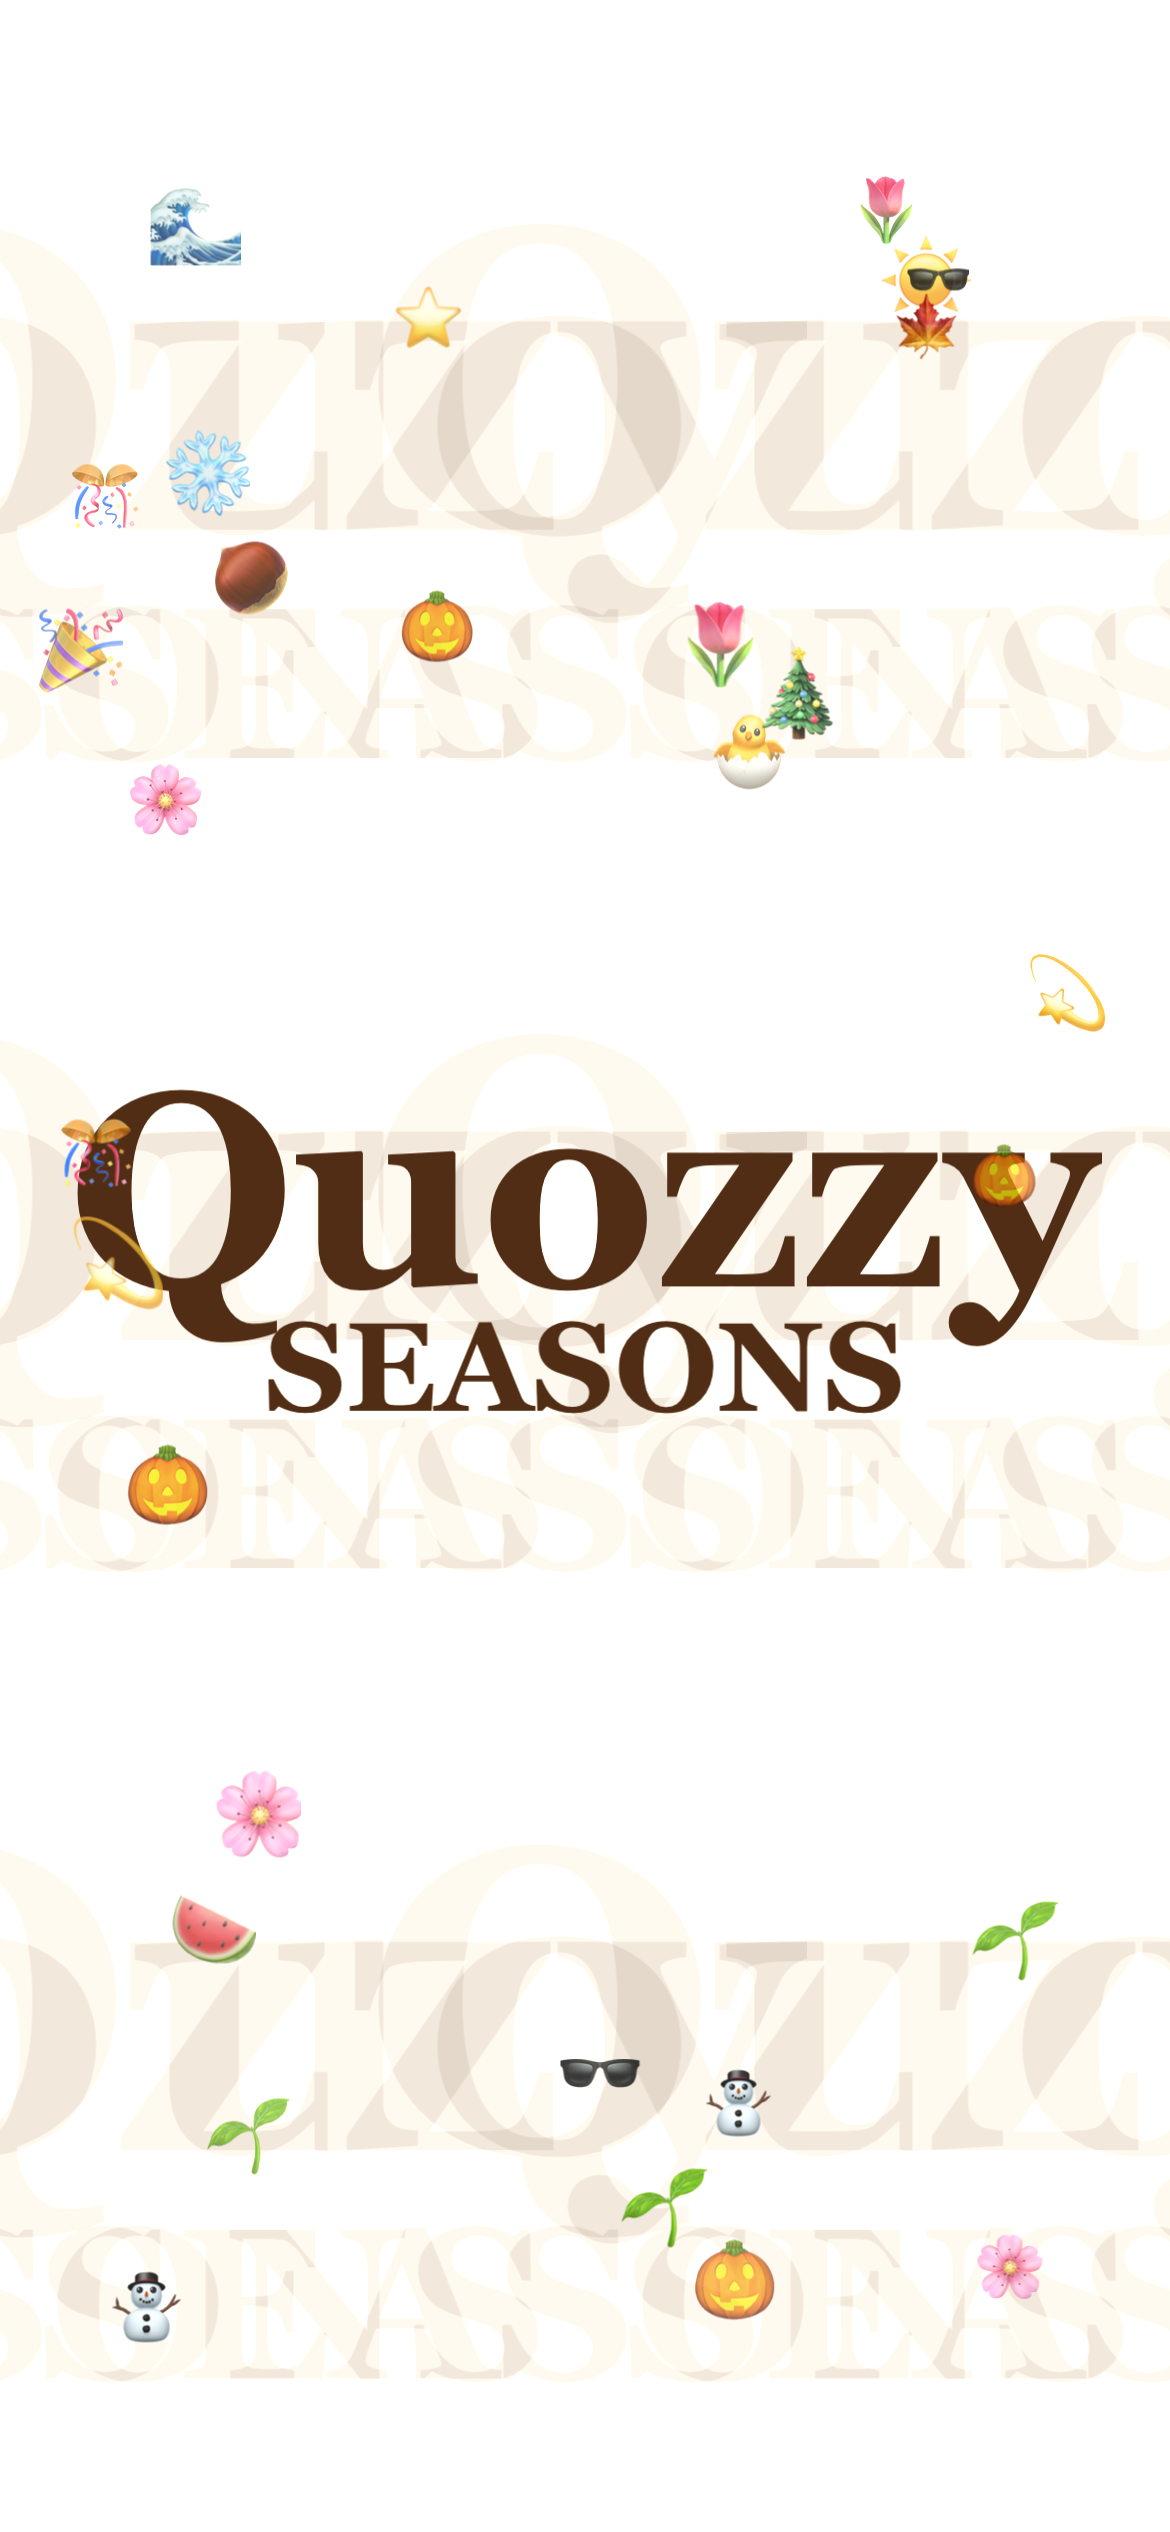
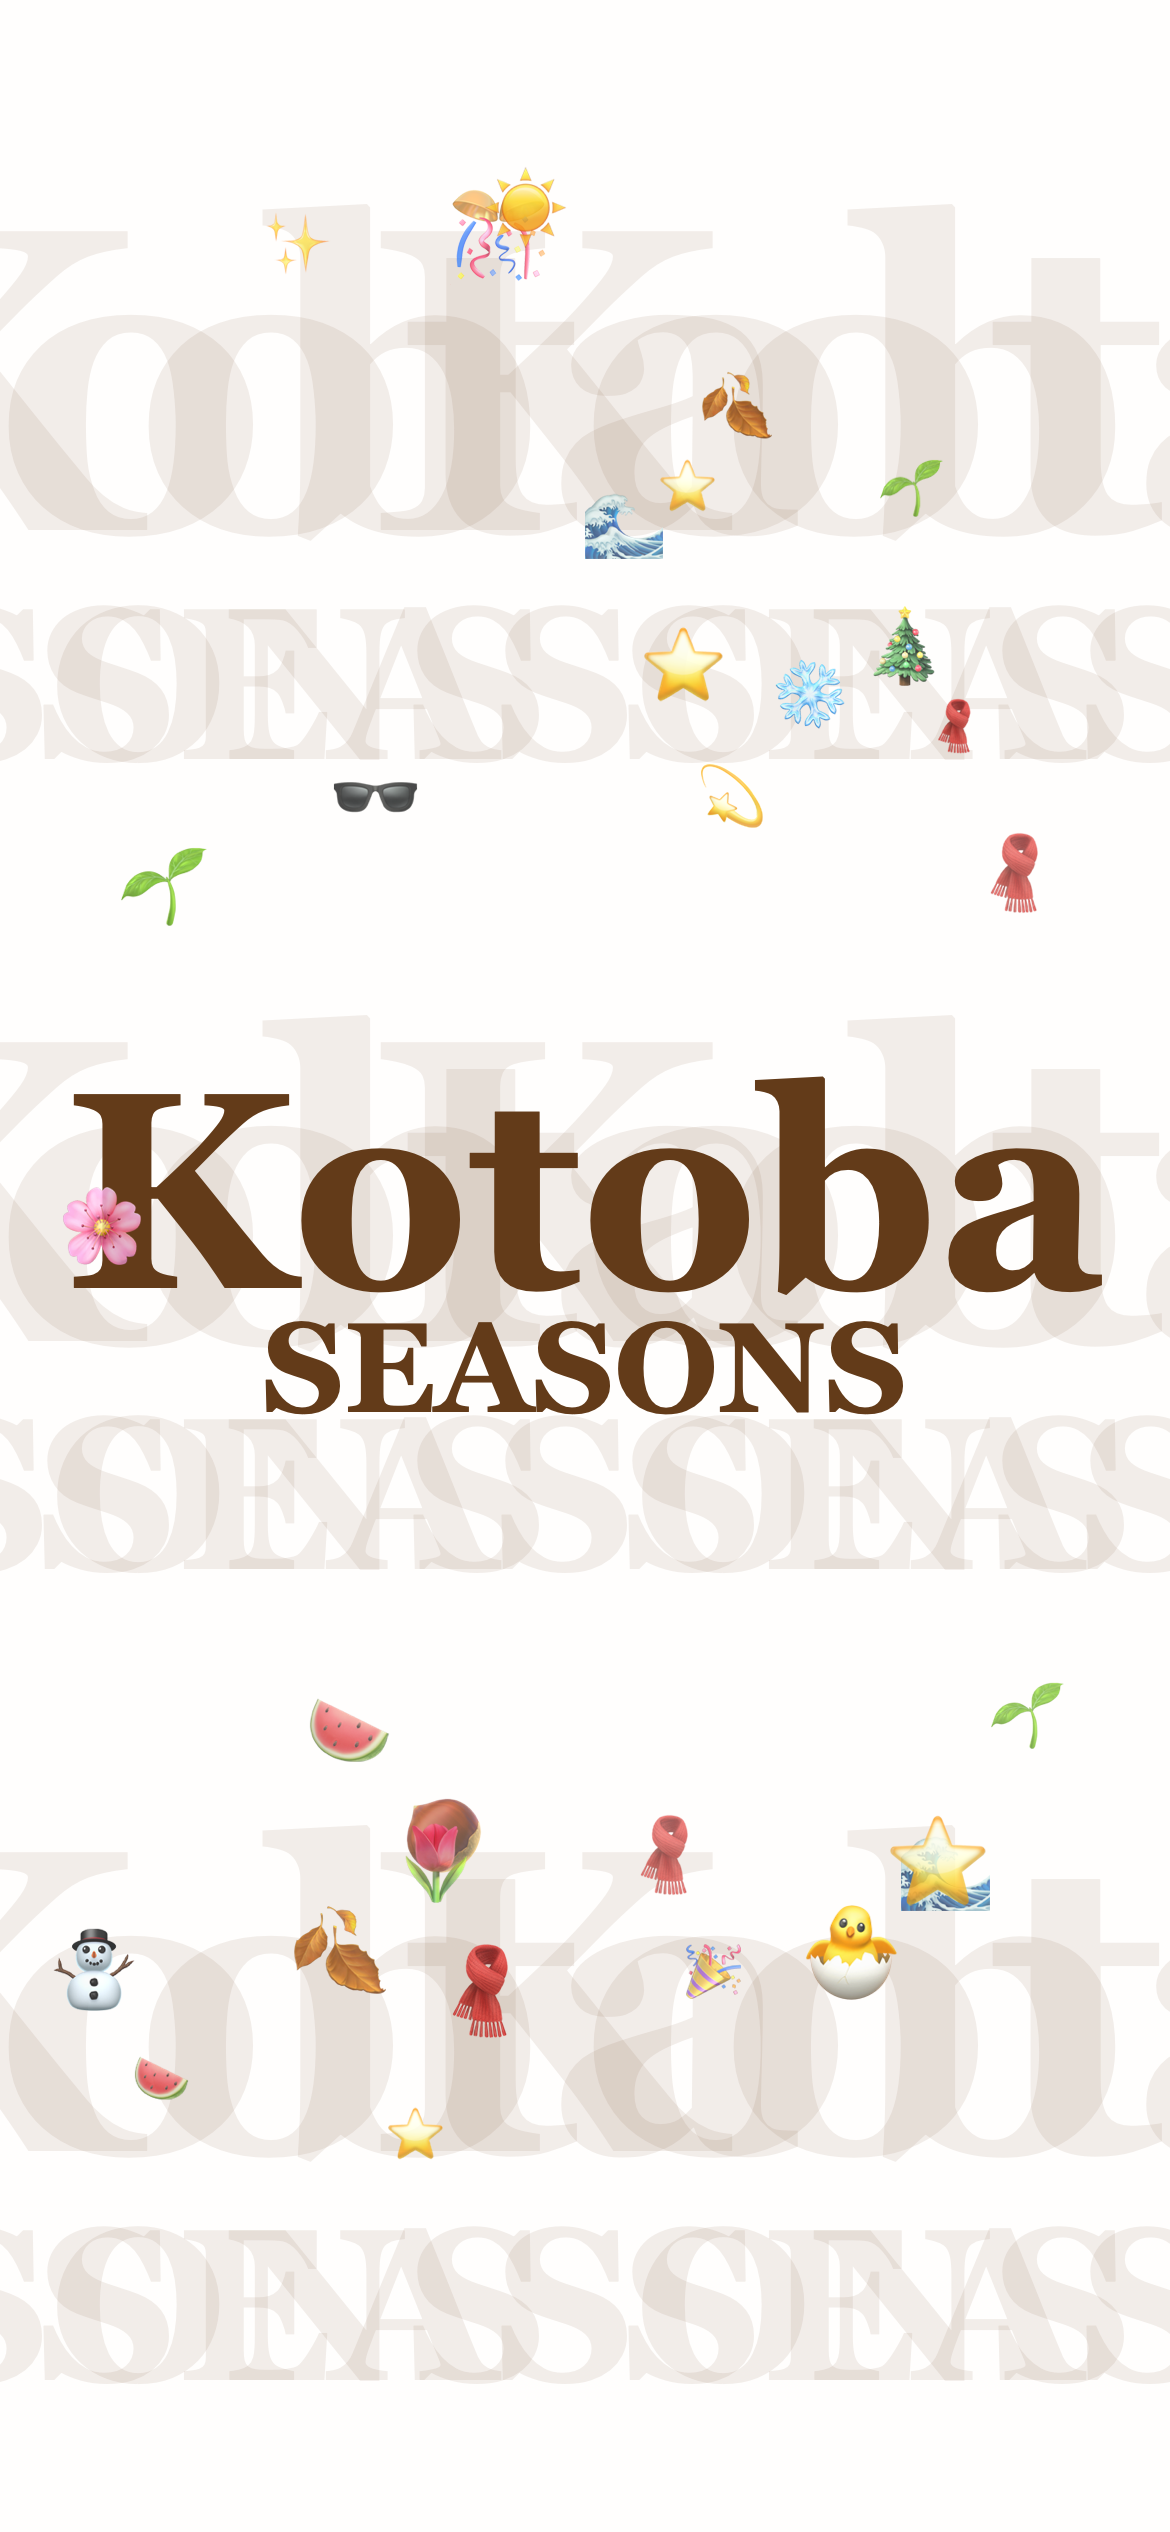
rebrand: Quozzy → Kotoba (user-facing only)
Brand the app as "Kotoba" everywhere a player sees the name, while
keeping all internal identity as Quozzy (bundle id, target/scheme,
process name, .codea bundle) so App Store / GameCenter / diagnostics
are unaffected.

- Info.plist: add CFBundleDisplayName = Kotoba (home-screen name)
- Main.lua: loading screen draws "Kotoba" / "SEASONS"; bump
  LOADING_ART_VERSION 6→7 so cached art regenerates
- Loading_QuozzySeasons.png (both the asset-catalog copy and the loose
  bundle copy): regenerated as "Kotoba Seasons", matching the original
  style — white bg, brown Georgia-Bold title, tiled watermark, emoji
  scatter (rendered via Core Text)
- CLAUDE.md / HANDOFF.md: document the product↔internal name split

Executed by Claude Opus 4.8

diff --git a/CLAUDE.md b/CLAUDE.md
@@ -18,7 +18,9 @@ Codea uses OpenGL-style **y-up** coordinates. Origin (0,0) is **bottom-left**.
 
 ## Project Overview
 
-**Quozzy** is a Boggle-style word game for iOS written in **Lua for the [Codea](https://codea.io) iPad environment**. It supports single-player timed rounds and asynchronous turn-based multiplayer via GameCenter. The current build is `#8 (1.0.8)`.
+**Kotoba** is a Boggle-style word game for iOS written in **Lua for the [Codea](https://codea.io) iPad environment**. It supports single-player timed rounds and asynchronous turn-based multiplayer via GameCenter. The current build is `#8 (1.0.8)`.
+
+> **Name split:** The app is branded **Kotoba** to users (home-screen `CFBundleDisplayName` + the in-game loading screen). Everything internal is still **Quozzy** and stays that way: the Xcode target/scheme (`Quozzy`), the Codea bundle (`Quozzy.codea`), the executable/process name (`Quozzy` — so `log show ... process == "Quozzy"` is correct), and the bundle ID (`com.jessewonderclark.quozzyseasons`). Don't "fix" internal `Quozzy` references to `Kotoba` — it would break diagnostics and orphan App Store/GameCenter identity. The static launch-screen PNG (`Loading_QuozzySeasons`) still shows "Quozzy" baked into the art; regenerating it is a separate art task.
 
 ## Running the Project
 

diff --git a/Quozzy.codea/HANDOFF.md b/Quozzy.codea/HANDOFF.md
@@ -12,10 +12,12 @@ These are consumed by the `xcode-orchestrator` skill and any CLI-based diagnosti
 | SIM_ID     | `0EF8AE50-8899-40DD-A77E-359C06732886` (iPhone 16e — primary for this project) |
 | SIM_ID_ALT | `1B48ACAA-0AE2-40C3-B28B-BFDB1A4A3044` (iPhone 17 — DO NOT USE for this project) |
 
-> **Pending rename:** The app will be released as **Kotoba**. When the Xcode
-> project is renamed, update SCHEME and BUNDLE_ID above, and the paths in
-> `xcode-orchestrator.md` will pick them up transitively. The orchestrator
-> file itself is project-agnostic — it reads these values from here.
+> **Rename (done, user-facing only):** The app is branded **Kotoba** to users
+> via `CFBundleDisplayName` and the in-game loading screen. Internals stay
+> **Quozzy** deliberately — SCHEME, BUNDLE_ID, process name, and `.codea` bundle
+> above are all still `Quozzy`/`quozzyseasons` and must not be changed (doing so
+> breaks diagnostics and orphans App Store/GameCenter identity). So these
+> constants remain correct as written.
 
 ### Diagnostic Log Access
 
